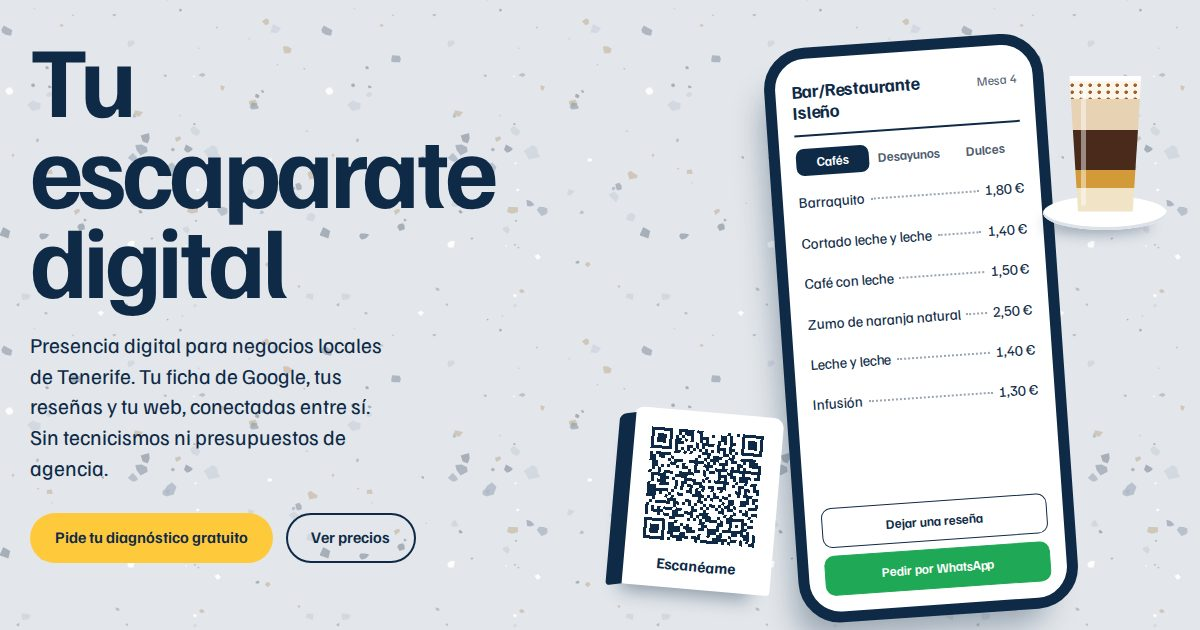
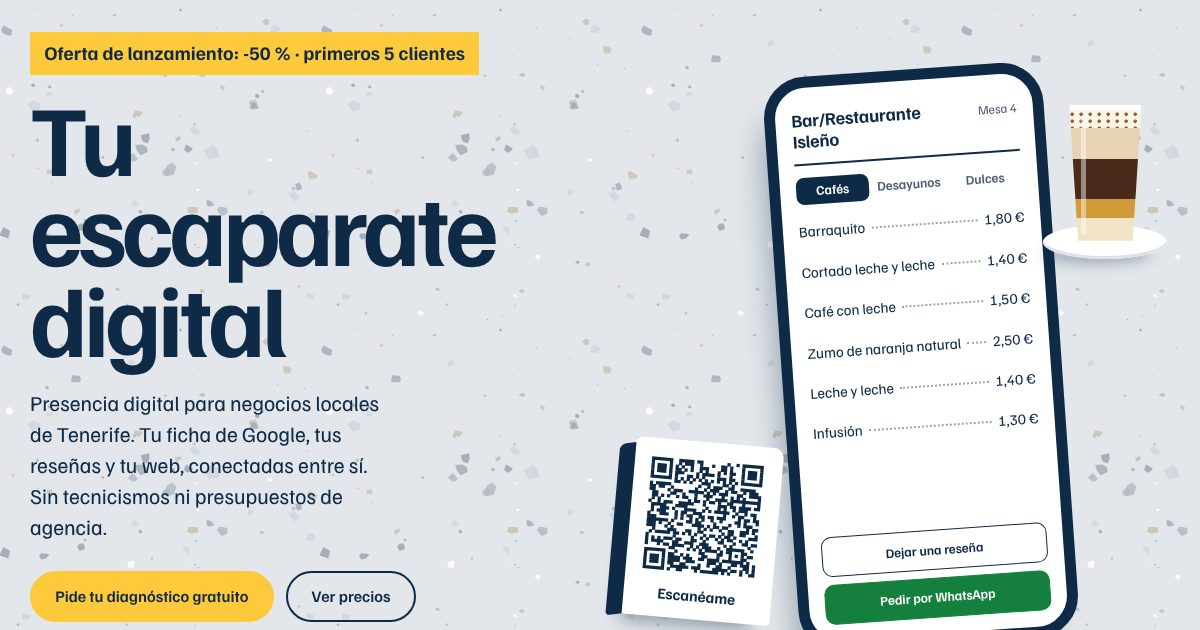
Privacidad y cookies ampliadas + oferta de lanzamiento del 50 % en los packs (#6)
* Amplía privacidad y cookies y añade oferta de lanzamiento del 50 % en los packs

Privacidad: datos técnicos de la visita (Cloudflare), encargados, bases legales, plazos y menores.
Cookies: aclara que no se usan cookies ni tecnologías similares (art. 22.2 LSSI-CE).
Oferta: 50 % en los dos packs para los 5 primeros clientes, con precio normal tachado, 3 primeros meses de mantenimiento incluidos y condiciones visibles. Se desactiva con launch.active en site.js.

Claude-Session: https://claude.ai/code/session_016pAXmZxjhvZdBb3bP4EuyG

* Regenera la imagen para compartir con la oferta de lanzamiento

Claude-Session: https://claude.ai/code/session_016pAXmZxjhvZdBb3bP4EuyG

---------

Changed region(s): [[0.0, 0.0302, 0.4317, 0.9952], [0.4933, 0.0302, 0.9867, 1.0]]

diff --git a/test/static.test.js b/test/static.test.js
@@ -30,6 +30,13 @@ const priceRow = (label, price) => new RegExp(`<span>${escapeRe(label)}</span><s
 const amount = (price) => Number(String(price).match(/\d+(?:,\d+)?/)[0].replace(',', '.'));
 const service = (id) => site.services.find((s) => s.id === id);
 const extra = (id) => site.extras.items.find((i) => i.id === id);
+// Precio normal de un pack (con la oferta de lanzamiento activa, el que aparece tachado).
+const normalPrice = (pack) => pack.regularPrice || pack.price;
+const launch = site.launch.active ? site.launch : null;
+// Importe de un pack en la web: con la oferta, el precio normal tachado delante del de lanzamiento.
+const packPriceRe = (pack) => (pack.regularPrice
+  ? `<s class="antes"><span class="solo-lectores">Precio normal: </span>${escapeRe(pack.regularPrice)}</s> <span class="solo-lectores">Precio de lanzamiento: </span>${escapeRe(pack.price)}`
+  : escapeRe(pack.price));
 
 before(() => {
   buildStatic({ outDir, publicBaseUrl: `${BASE}/` });
@@ -166,14 +173,14 @@ describe('coherencia del contenido', () => {
     assert.deepEqual(positions, [...positions].sort((a, b) => a - b), `orden del menú: ${navIds.join(', ')}`);
   });
 
-  test('cada pack es más barato que sus servicios sueltos, sin mostrar precio "antes" ni ahorro', () => {
+  test('cada pack (a precio normal) es más barato que sus servicios sueltos, sin mostrar ahorro', () => {
     // Pack completo hostelería = ficha + landing + primer año del plan de mantenimiento (pago anual) + tarjeta de reseñas.
     const planAnual = amount(service('hosting').prices[1].price);
     const suelto = amount(service('gbp').price) + amount(service('landing').price) + planAnual + amount(extra('nfc').price);
-    assert.equal(suelto - amount(site.pack.price), 25, 'el pack de hostelería ahorra 25 € frente a los servicios sueltos');
+    assert.equal(suelto - amount(normalPrice(site.pack)), 25, 'el pack de hostelería ahorra 25 € frente a los servicios sueltos');
     // Pack negocios con cita previa = landing + tarjeta de reseñas + primer año del plan, más barato que por separado.
     const cita = site.sectors.find((s) => s.id === 'cita-previa');
-    assert.equal(amount(service('landing').price) + amount(extra('nfc').price) + planAnual - amount(cita.pack.price), 25,
+    assert.equal(amount(service('landing').price) + amount(extra('nfc').price) + planAnual - amount(normalPrice(cita.pack)), 25,
       'el pack de cita previa ahorra 25 € frente a los servicios sueltos');
   });
 
@@ -196,17 +203,19 @@ describe('coherencia del contenido', () => {
     const [mensual, anual] = service('hosting').prices.map((row) => row.price);
     const plan = `${mensual.replace(' / mes', ' al mes')} o ${anual.replace(' / año', ' al año')}`;
     assert.equal(plan, '12 € al mes o 120 € al año');
-    assert.match(between(index, 'class="recorrido"', 'id="por-que"'), new RegExp(escapeRe(`por ${plan}. El primer año va incluido en los packs.`)));
+    assert.match(between(index, 'class="recorrido"', 'id="por-que"'), new RegExp(escapeRe(`por ${plan}. ${launch ? `Los packs de lanzamiento incluyen los ${launch.months} primeros meses.` : 'El primer año va incluido en los packs.'}`)));
   });
 
-  test('plan de mantenimiento: sustituye al hosting suelto, hasta 2 cambios al mes y primer año incluido en los dos packs', () => {
+  test('plan de mantenimiento: sustituye al hosting suelto, hasta 2 cambios al mes e incluido en los dos packs', () => {
     const plan = service('hosting');
     assert.equal(plan.name, 'Plan de mantenimiento');
     assert.deepEqual(plan.prices.slice(0, 2).map((row) => row.price), ['12 € / mes', '120 € / año']);
     assert.doesNotMatch(index, /90 € \/ año|90 € al año|se paga aparte|hosting aparte/);
     for (const sector of site.sectors) {
       const panel = between(index, `id="${sector.id}"`, sector.id === 'hosteleria' ? 'id="cita-previa"' : 'class="recorrido"');
-      assert.match(panel, /<h4>Plan de mantenimiento el primer año<\/h4>\s*<p>Hosting, dominio y hasta 2 cambios al mes/, sector.id);
+      const incluido = sector.includes.find((i) => i.name.startsWith('Plan de mantenimiento'));
+      assert.equal(incluido.name, launch ? `Plan de mantenimiento los ${launch.months} primeros meses` : 'Plan de mantenimiento el primer año');
+      assert.match(panel, new RegExp(`<h4>${escapeRe(incluido.name)}</h4>\\s*<p>[^<]*hosting, dominio y hasta 2 cambios al mes`, 'i'), sector.id);
     }
   });
 
@@ -293,7 +302,7 @@ describe('packs por tipo de negocio', () => {
     const panel = between(index, 'id="hosteleria"', 'id="cita-previa"');
     assert.doesNotMatch(index, /[Dd]e regalo/);
     assert.equal((panel.match(/class="local-precio incluido">Incluido</g) || []).length, site.sectors[0].includes.length);
-    assert.match(panel, new RegExp(`class="pack-total">[\\s\\S]*?<span class="local-precio">${site.pack.price}</span>`));
+    assert.match(panel, new RegExp(`class="pack-total">[\\s\\S]*?<span class="local-precio">${packPriceRe(site.pack)}</span>`));
     for (const id of ['mesa', 'pegatinas']) {
       assert.match(panel, new RegExp(`${escapeRe(extra(id).name)}</h5>[\\s\\S]*?${escapeRe(extra(id).price)}`));
     }
@@ -304,7 +313,7 @@ describe('packs por tipo de negocio', () => {
   test('cita previa: pack con el primer año de mantenimiento y tarjetas de visita; sin material de mesa', () => {
     const cita = site.sectors.find((s) => s.id === 'cita-previa');
     const panel = between(index, 'id="cita-previa"', 'class="recorrido"');
-    assert.match(panel, new RegExp(`${escapeRe(cita.pack.label)}</h4>\\s*<span class="local-precio">${cita.pack.price}`));
+    assert.match(panel, new RegExp(`${escapeRe(cita.pack.label)}</h4>\\s*<span class="local-precio">${packPriceRe(cita.pack)}</span>`));
     assert.match(panel, new RegExp(`Opcional: ${escapeRe(cita.option.name)}[\\s\\S]*?${escapeRe(cita.option.price)}`));
     assert.doesNotMatch(panel, /Expositor de mesa/);
     assert.match(panel, /wa\.me\/34623243294\?text=Hola%2C%20tengo%20un%20negocio%20con%20cita%20previa/);
@@ -317,9 +326,13 @@ describe('precios', () => {
       for (const row of s.prices || [{ label: s.priceLabel || s.name, price: s.price }]) assert.match(precios, priceRow(row.label, row.price));
     }
     for (const item of site.extras.items) assert.match(precios, priceRow(item.name, item.price));
-    assert.match(precios, /class="pack"[\s\S]*?<p class="pack-precio"><strong>520 €<\/strong>/);
-    assert.doesNotMatch(index, /<s>|ahorr|antes \d/i, 'sin precio tachado ni ahorro');
-    assert.match(precios, /Pack negocios con cita previa \(web, tarjeta de reseñas QR \+ NFC y primer año de mantenimiento\)/);
+    const precioPack = launch ? '<s class="antes"><span class="solo-lectores">Precio normal: </span>520 €</s> <span class="solo-lectores">Precio de lanzamiento: </span><strong>260 €</strong>' : '<strong>520 €</strong>';
+    assert.match(precios, new RegExp(`class="pack"[\\s\\S]*?<p class="pack-precio">${escapeRe(precioPack)}</p>`));
+    assert.doesNotMatch(index, /ahorr|antes \d/i, 'sin ahorro calculado');
+    assert.equal(index.includes('<s '), Boolean(launch), 'precio tachado solo mientras dura la oferta');
+    const cita = site.sectors.find((s) => s.id === 'cita-previa');
+    assert.match(precios, new RegExp(`Pack negocios con cita previa \\(${escapeRe(cita.pack.label.charAt(0).toLowerCase() + cita.pack.label.slice(1))}\\)`));
+    assert.match(precios, new RegExp(`<span class="importe">${packPriceRe(cita.pack)}</span>`));
     assert.match(precios, /Precios sin IGIC/);
   });
 });
@@ -393,5 +406,35 @@ describe('datos estructurados para Google', () => {
     } finally {
       rmSync(dir, { recursive: true, force: true });
     }
+  });
+});
+
+describe('oferta de lanzamiento', () => {
+  test('50 % de descuento en los dos packs, con precio normal, cupo y condiciones visibles', () => {
+    assert.equal(site.launch.percent, 50);
+    for (const pack of [site.pack, site.sectors.find((s) => s.id === 'cita-previa').pack]) {
+      assert.equal(amount(pack.price), amount(pack.regularPrice) / 2, pack.name);
+    }
+    assert.deepEqual([site.pack.price, site.pack.regularPrice], ['260 €', '520 €']);
+    const oferta = between(index, 'class="oferta"', '</aside>');
+    assert.match(oferta, /Oferta de lanzamiento: -50 %/);
+    assert.match(oferta, /los 5 primeros clientes/);
+    assert.match(oferta, /3 primeros meses de mantenimiento/);
+    assert.match(oferta, /Precios sin IGIC/);
+    assert.match(oferta, /wa\.me\/34623243294\?text=Hola%2C%20quiero%20aprovechar%20la%20oferta/);
+    assert.match(index, /class="oferta-chapa" href="#packs"/);
+  });
+
+  test('la oferta no toca los servicios sueltos ni el material', () => {
+    const grupos = precios.split('class="carta-grupo"').slice(1);
+    assert.ok(grupos.length >= 3);
+    assert.doesNotMatch(grupos.slice(0, 2).join(''), /<s /);
+  });
+
+  test('los datos estructurados anuncian el precio de lanzamiento', () => {
+    const [negocio] = JSON.parse(/<script type="application\/ld\+json">\n([\s\S]*?)\n<\/script>/.exec(index)[1])['@graph'];
+    const precios = negocio.hasOfferCatalog.itemListElement.flatMap((g) => g.itemListElement)
+      .filter((o) => /^Pack /.test(o.itemOffered.name)).map((o) => o.priceSpecification.price);
+    assert.deepEqual(precios, [260, 210]);
   });
 });

diff --git a/src/views/legal.js b/src/views/legal.js
@@ -45,22 +45,31 @@ export function renderPrivacy({ site, config }) {
   ];
 
   sections.push(
-    ['Qué datos tratamos', '<p>Esta web no guarda ningún dato. El formulario de contacto solo prepara un mensaje de WhatsApp en tu dispositivo: nos llega únicamente si tú decides enviarlo. En ese caso tratamos tu nombre, tu número de teléfono y lo que nos escribas.</p>'],
-    ['Para qué los usamos', '<p>Únicamente para responder a tu consulta y, si te interesa, preparar un presupuesto. No enviamos publicidad ni tomamos decisiones automatizadas.</p>'],
-    ['Base legal', '<p>Tu consentimiento al escribirnos (art. 6.1.a RGPD) y, si contratas, la ejecución del contrato (art. 6.1.b RGPD).</p>'],
-    ['Cuánto tiempo los guardamos', '<p>Si no llegas a contratar, borramos la conversación en un plazo máximo de 12 meses. Si contratas, durante la relación comercial y los plazos legales de conservación.</p>'],
-    ['Con quién los compartimos', '<p>No cedemos tus datos a terceros salvo obligación legal. Al usar WhatsApp se aplican además las condiciones y la política de privacidad de WhatsApp (Meta).</p>'],
+    ['Qué datos tratamos', '<p>Esta web no guarda ningún dato por su cuenta: no tiene formularios que almacenen información, ni cuentas de usuario, ni analítica, ni publicidad. El formulario de contacto solo prepara un mensaje de WhatsApp en tu dispositivo: nos llega únicamente si tú decides enviarlo. En ese caso tratamos los datos que nos facilites: tu nombre, tu número de teléfono y lo que nos escribas, y los datos del negocio que nos pases si pides información o un presupuesto.</p>'],
+    ['Datos técnicos de la visita', '<p>Para servir la web, el proveedor de alojamiento (Cloudflare, Inc.) recibe de forma automática datos técnicos de tu conexión, como la dirección IP, el navegador y la fecha y hora de la visita. Los usa para entregar la página y garantizar su seguridad; nosotros no accedemos a un registro individual de visitantes ni lo usamos para identificarte. Cloudflare puede tratar estos datos fuera del Espacio Económico Europeo con las garantías previstas en el RGPD (cláusulas contractuales tipo o decisión de adecuación).</p>'],
+    ['Para qué los usamos', '<p>Únicamente para responder a tu consulta, preparar un presupuesto y, si contratas, prestar el servicio y facturarlo. No enviamos publicidad que no hayas pedido, no elaboramos perfiles y no tomamos decisiones automatizadas.</p>'],
+    ['Base legal', '<p>Tu consentimiento al escribirnos (art. 6.1.a RGPD); la aplicación de medidas precontractuales a petición tuya y, si contratas, la ejecución del contrato (art. 6.1.b RGPD); el cumplimiento de obligaciones legales, como las fiscales y contables (art. 6.1.c RGPD); y, para los datos técnicos de la visita, el interés legítimo en el funcionamiento y la seguridad de la web (art. 6.1.f RGPD).</p>'],
+    ['Cuánto tiempo los guardamos', '<p>Si no llegas a contratar, borramos la conversación en un plazo máximo de 12 meses. Si contratas, durante la relación comercial y después, bloqueados, durante los plazos legales de conservación (en general, hasta 6 años para la documentación mercantil y contable).</p>'],
+    ['Con quién los compartimos', '<p>No vendemos ni cedemos tus datos a terceros salvo obligación legal. Intervienen como proveedores (encargados del tratamiento): Cloudflare, para el alojamiento de la web, y WhatsApp (Meta Platforms Ireland Ltd.), que es el canal que eliges para escribirnos y cuyas condiciones y política de privacidad se aplican además a esa conversación. Si contratas, podemos necesitar acceder a tu ficha de Google Business para configurarla, siempre con tu autorización y solo para ese fin.</p>'],
+    ['Menores', '<p>Esta web se dirige a profesionales y titulares de negocios. No recogemos conscientemente datos de menores de 14 años.</p>'],
   );
 
-  sections.push(['Tus derechos', `<p>Puedes ejercer tus derechos de acceso, rectificación, supresión, oposición, limitación y portabilidad escribiéndonos a ${reach}. Si consideras que no hemos atendido correctamente tu solicitud, puedes reclamar ante la Agencia Española de Protección de Datos (<a href="https://www.aepd.es" rel="noopener">www.aepd.es</a>).</p>`]);
+  sections.push(
+    ['Tus derechos', `<p>Puedes ejercer tus derechos de acceso, rectificación, supresión, oposición, limitación del tratamiento y portabilidad, y retirar tu consentimiento en cualquier momento, escribiéndonos a ${reach}. Responderemos en el plazo de un mes. Si consideras que no hemos atendido correctamente tu solicitud, puedes reclamar ante la Agencia Española de Protección de Datos (<a href="https://www.aepd.es" rel="noopener">www.aepd.es</a>).</p>`],
+    ['Cambios en esta política', `<p>Si cambiamos la forma de tratar tus datos, actualizaremos esta página y su fecha. Última revisión: ${esc(site.legal.lastUpdated)}.</p>`],
+  );
 
   return page({ site, config, path: '/privacidad', title: 'Política de privacidad', sections });
 }
 
 export function renderCookies({ site, config }) {
   const sections = [
-    ['Qué cookies usamos', `<p>La web de ${esc(site.name)} no utiliza cookies de ningún tipo, y las tipografías se sirven desde nuestro propio alojamiento. Por eso no te mostramos un aviso de cookies.</p>`],
-    ['Enlaces externos', '<p>Al pulsar los botones de WhatsApp sales de esta web; desde ese momento se aplica la política de cookies de WhatsApp.</p>'],
+    ['Qué son las cookies', '<p>Las cookies son pequeños archivos que una web guarda en tu dispositivo para recordarte o medir tu actividad. También existen tecnologías parecidas, como el almacenamiento local del navegador.</p>'],
+    ['Qué cookies usamos', `<p>La web de ${esc(site.name)} <strong>no utiliza cookies ni tecnologías similares</strong> en tu dispositivo: ni propias ni de terceros, ni técnicas, de análisis o de publicidad. No guardamos nada en tu navegador. Las tipografías se sirven desde nuestro propio alojamiento y no cargamos recursos de terceros.</p>
+  <p>Por eso, conforme al artículo 22.2 de la LSSI-CE, no te mostramos un aviso de cookies ni te pedimos que las aceptes.</p>`],
+    ['Enlaces externos', '<p>Al pulsar los botones de WhatsApp o los enlaces a otras webs sales de este sitio; desde ese momento se aplican la política de cookies y de privacidad de cada servicio.</p>'],
+    ['Si esto cambia', '<p>Si en el futuro añadimos algún servicio que use cookies (por ejemplo, estadísticas), te lo pediremos antes con un aviso que puedas aceptar o rechazar, y actualizaremos esta página.</p>'],
+    ['Cómo gestionar las cookies', '<p>Aunque esta web no las usa, puedes bloquear o borrar las de otros sitios desde la configuración de tu navegador.</p>'],
   ];
   return page({ site, config, path: '/cookies', title: 'Política de cookies', sections });
 }

diff --git a/src/content/site.js b/src/content/site.js
@@ -1,7 +1,31 @@
 // CONTENIDO EDITABLE DE LA WEB.
 // Cambia aquí textos, precios, contacto y equipo.
 
+// OFERTA DE LANZAMIENTO: 50 % de descuento en los dos packs para los primeros clientes.
+// Para terminarla: pon active en false. Los precios de los packs vuelven a los normales y los
+// packs vuelven a incluir el primer año de mantenimiento. El cupo no se descuenta solo:
+// cuando se cubran las plazas, desactívala (o baja "spots") y vuelve a publicar.
+const launch = { active: true, percent: 50, spots: 5, months: 3 };
+const euros = (n) => `${n} €`;
+// Precio de un pack: con la oferta, la mitad; "regularPrice" (precio normal) solo existe mientras dura.
+const packPrice = (regular) => (launch.active ? euros(regular * (100 - launch.percent) / 100) : euros(regular));
+const regularPrice = (regular) => (launch.active ? { regularPrice: euros(regular) } : {});
+const maintenanceName = launch.active ? `Plan de mantenimiento los ${launch.months} primeros meses` : 'Plan de mantenimiento el primer año';
+const maintenanceText = launch.active
+  ? `En la oferta de lanzamiento: hosting, dominio y hasta 2 cambios al mes (carta, precios, horarios, fotos) durante ${launch.months} meses.`
+  : 'Hosting, dominio y hasta 2 cambios al mes (carta, precios, horarios, fotos).';
+const maintenanceInPack = launch.active ? `${launch.months} primeros meses de mantenimiento` : 'primer año de mantenimiento';
+
 export const site = {
+  launch: {
+    ...launch,
+    badge: `Oferta de lanzamiento: -${launch.percent} %`,
+    title: `-${launch.percent} % en los packs para los ${launch.spots} primeros clientes`,
+    text: `Precio de lanzamiento solo para los ${launch.spots} primeros negocios que contraten un pack, hasta completar plazas. Incluye los ${launch.months} primeros meses de mantenimiento.`,
+    terms: `Precios sin IGIC. Después de los ${launch.months} meses puedes seguir con el plan de mantenimiento ({plan}). La oferta no es acumulable con otras promociones y se aplica a los packs, no a los servicios sueltos ni al material.`,
+    cta: 'Reserva tu plaza',
+    whatsappText: `Hola, quiero aprovechar la oferta de lanzamiento del ${launch.percent} % en el pack`,
+  },
   name: 'Alcance Isleño',
   title: 'Alcance Isleño | Tu escaparate digital: presencia digital para negocios de Tenerife',
   description:
@@ -107,7 +131,7 @@ export const site = {
       includes: [
         { name: 'Landing page con carta digital', text: 'Tu carta con precios, horario, ubicación y contacto por WhatsApp. Se abre desde el QR de la mesa, sin descargar nada.' },
         { name: 'Ficha de Google Business', text: 'La creamos o optimizamos: horarios, fotos, enlace a tu carta y acceso directo a tus reseñas.' },
-        { name: 'Plan de mantenimiento el primer año', text: 'Hosting, dominio y hasta 2 cambios al mes (carta, precios, horarios, fotos).' },
+        { name: maintenanceName, text: maintenanceText },
         { name: 'Tarjeta de reseñas QR + NFC', text: 'Tus clientes dejan su reseña en Google o Tripadvisor en segundos.' },
       ],
       pack: 'main',
@@ -142,9 +166,9 @@ export const site = {
       includes: [
         { name: 'Landing page con tus servicios', text: 'Servicios y precios, fotos de tus trabajos, horarios, ubicación y un botón para pedir cita por WhatsApp.' },
         { name: 'Tarjeta de reseñas QR + NFC', text: 'En el mostrador o junto al espejo: al pagar, tu cliente acerca el móvil y deja su reseña en Google en segundos. También funciona con QR.' },
-        { name: 'Plan de mantenimiento el primer año', text: 'Hosting, dominio y hasta 2 cambios al mes (carta, precios, horarios, fotos).' },
+        { name: maintenanceName, text: maintenanceText },
       ],
-      pack: { name: 'Pack negocios con cita previa', label: 'Web, tarjeta de reseñas QR + NFC y primer año de mantenimiento', price: '420 €' },
+      pack: { name: 'Pack negocios con cita previa', label: `Web, tarjeta de reseñas QR + NFC y ${maintenanceInPack}`, price: packPrice(420), ...regularPrice(420) },
       option: {
         name: 'Tarjetas de visita personalizadas',
         text: 'Impresas con tu marca, a juego con tu web y tu tarjeta de reseñas QR + NFC.',
@@ -178,7 +202,9 @@ export const site = {
       { moment: 'Te deja una reseña', service: 'nfc' },
     ],
     // {plan} se sustituye por los precios del plan de mantenimiento ("12 € al mes o 120 € al año").
-    note: 'Y para que todo siga al día, nuestro plan de mantenimiento incluye hosting, dominio y hasta 2 cambios al mes (carta, servicios, precios, horarios o fotos) por {plan}. El primer año va incluido en los packs.',
+    note: 'Y para que todo siga al día, nuestro plan de mantenimiento incluye hosting, dominio y hasta 2 cambios al mes (carta, servicios, precios, horarios o fotos) por {plan}. ' + (launch.active
+      ? `Los packs de lanzamiento incluyen los ${launch.months} primeros meses.`
+      : 'El primer año va incluido en los packs.'),
   },
 
   // POR QUÉ ELEGIRNOS
@@ -240,7 +266,8 @@ export const site = {
   // comprueba que el pack sigue siendo más barato que sus servicios sueltos. Pon "pack: null" para ocultarlo.
   pack: {
     name: 'Pack completo para hostelería',
-    price: '520 €',
+    price: packPrice(520),
+    ...regularPrice(520),
   },
   pricesNote: 'Precios sin IGIC. Otros trabajos de imprenta y la fotografía profesional se presupuestan aparte.',
 
@@ -289,6 +316,6 @@ export const site = {
     taxId: '', // NIF/CIF
     address: '', // dirección postal
     registry: '', // datos registrales, si es sociedad
-    lastUpdated: '30 de septiembre de 2026',
+    lastUpdated: '8 de octubre de 2026',
   },
 };

diff --git a/src/views/landing.js b/src/views/landing.js
@@ -46,7 +46,7 @@ export function priceList(site) {
     ...(sectors || []).filter((sector) => sector.pack !== 'main').map((sector) => ({
       title: sector.title,
       rows: [
-        { label: `${sector.pack.name} (${sector.pack.label.charAt(0).toLowerCase()}${sector.pack.label.slice(1)})`, price: sector.pack.price },
+        { label: `${sector.pack.name} (${sector.pack.label.charAt(0).toLowerCase()}${sector.pack.label.slice(1)})`, price: sector.pack.price, regularPrice: sector.pack.regularPrice },
         ...(sector.option ? [{ label: `${sector.option.name} (opcional)`, price: sector.option.price }] : []),
       ],
     })),
@@ -81,6 +81,20 @@ export function renderLanding({ site, config }) {
     ? `${mainSector.includes.map((i, n) => (n ? i.name.charAt(0).toLowerCase() + i.name.slice(1) : i.name)).join(' + ')}.`
     : '';
 
+  // Oferta de lanzamiento: precio normal tachado delante del precio con descuento (solo mientras dura).
+  const launch = site.launch && site.launch.active ? site.launch : null;
+  const priceHtml = (price, regularPrice) => (regularPrice
+    ? `<s class="antes"><span class="solo-lectores">Precio normal: </span>${esc(regularPrice)}</s> <span class="solo-lectores">Precio de lanzamiento: </span>${esc(price)}`
+    : esc(price));
+  const launchBanner = launch ? `
+    <aside class="oferta" aria-labelledby="oferta-titulo">
+      <p class="oferta-etiqueta">${esc(launch.badge)}</p>
+      <h3 id="oferta-titulo">${esc(launch.title)}</h3>
+      <p>${esc(launch.text)}</p>
+      <a class="btn btn-sol" href="${esc(whatsappUrl(whatsapp, launch.whatsappText))}" rel="noopener" target="_blank">${esc(launch.cta)}</a>
+      <p class="oferta-condiciones">${esc(launch.terms.replace('{plan}', planText))}</p>
+    </aside>` : '';
+
   // ---------- Portada: la mesa ----------
   const qrUrl = whatsappUrl(whatsapp, demoMenu.qrWhatsappText);
   const menuTabs = demoMenu.sections.map((section, i) => `
@@ -94,6 +108,7 @@ export function renderLanding({ site, config }) {
 <div class="mesa" id="inicio">
   <div class="wrap mesa-grid">
     <div class="mesa-texto">
+      ${launch ? `<a class="oferta-chapa" href="#packs">${esc(launch.badge)} · primeros ${esc(String(launch.spots))} clientes</a>` : ''}
       <h1>${esc(hero.title)}</h1>
       <p class="lead">${esc(hero.lead)}</p>
       <div class="acciones">
@@ -192,7 +207,7 @@ export function renderLanding({ site, config }) {
           </li>`).join('')}
           <li class="pack-total">
             <h4>${esc(sectorPack.label || sectorPack.name)}</h4>
-            <span class="local-precio">${esc(sectorPack.price)}</span>
+            <span class="local-precio">${priceHtml(sectorPack.price, sectorPack.regularPrice)}</span>
           </li>
         </ul>${sector.option && sector.option.items ? `
         <div class="pack-opcion pack-opcion-lista">
@@ -241,7 +256,7 @@ export function renderLanding({ site, config }) {
   const sectorsSection = sectors ? `
 <section class="packs" id="packs">
   <div class="wrap">
-    <h2>${esc(site.sectorsTitle)}</h2>
+    <h2>${esc(site.sectorsTitle)}</h2>${launchBanner}
     <div class="sector-tabs" role="tablist" aria-label="${esc(site.sectorsTitle)}" hidden>${sectors.map((sector, i) => `
       <button type="button" role="tab" id="tab-${esc(sector.id)}" aria-controls="${esc(sector.id)}" aria-selected="${i === 0}"${i === 0 ? '' : ' tabindex="-1"'}>${esc(sector.tab)}</button>`).join('')}
     </div>${sectors.map(sectorPanel).join('')}
@@ -279,8 +294,8 @@ export function renderLanding({ site, config }) {
 </section>`;
 
   // ---------- Precios: como la carta de una cafetería ----------
-  const priceRow = (label, price) => `
-          <li><span>${esc(label)}</span><span class="guia" aria-hidden="true"></span><span class="importe">${esc(price)}</span></li>`;
+  const priceRow = (label, price, regularPrice) => `
+          <li><span>${esc(label)}</span><span class="guia" aria-hidden="true"></span><span class="importe">${priceHtml(price, regularPrice)}</span></li>`;
   const priceGroups = priceList(site);
   const pricesSection = `
 <section class="precios" id="precios">
@@ -291,11 +306,12 @@ export function renderLanding({ site, config }) {
       <div class="pack">
         <h3>${esc(pack.name)}</h3>
         <p>${esc(packText)}</p>
-        <p class="pack-precio"><strong>${esc(pack.price)}</strong></p>
+        <p class="pack-precio">${pack.regularPrice ? `<s class="antes"><span class="solo-lectores">Precio normal: </span>${esc(pack.regularPrice)}</s> <span class="solo-lectores">Precio de lanzamiento: </span>` : ''}<strong>${esc(pack.price)}</strong></p>
+        ${launch ? `<p class="pack-oferta">${esc(launch.badge)} · primeros ${esc(String(launch.spots))} clientes</p>` : ''}
       </div>` : ''}${priceGroups.map((group) => `
       <div class="carta-grupo">
         <h3>${esc(group.title)}</h3>
-        <ul>${group.rows.map((row) => priceRow(row.label, row.price)).join('')}
+        <ul>${group.rows.map((row) => priceRow(row.label, row.price, row.regularPrice)).join('')}
         </ul>
       </div>`).join('')}
       <p class="precios-nota">${esc(site.pricesNote)}</p>

diff --git a/public/css/site.css b/public/css/site.css
@@ -502,3 +502,21 @@ footer a { text-decoration: none; }
   .pack-opcion-lista { grid-template-columns: 1fr; }
   .opcion-foto { max-width: 140px; margin-bottom: .8rem; }
 }
+
+/* ---------- Oferta de lanzamiento ---------- */
+.solo-lectores { position: absolute; width: 1px; height: 1px; overflow: hidden; clip-path: inset(50%); white-space: nowrap; }
+s.antes { color: var(--gris); font-weight: 400; font-size: .7em; margin-right: .3rem; text-decoration-thickness: 2px; }
+.pack-precio s.antes { color: #D5E1F0; font-size: 1.2rem; }
+.oferta-chapa {
+  display: inline-block; margin-bottom: 1rem; padding: .35rem .8rem;
+  background: var(--sol); color: var(--tinta); font-weight: 700; font-size: var(--t-s); text-decoration: none;
+}
+.oferta {
+  margin: 0 0 2rem; padding: 1.6rem 1.8rem; background: var(--tinta); color: var(--papel);
+}
+.oferta h3 { font-size: var(--t-xl); margin: .2rem 0 .5rem; }
+.oferta p { color: #D5E1F0; margin: 0 0 1rem; }
+.oferta .oferta-etiqueta { color: var(--sol); font-weight: 700; text-transform: uppercase; letter-spacing: .06em; font-size: var(--t-s); margin: 0; }
+.oferta .oferta-condiciones { font-size: var(--t-s); margin: 1rem 0 0; }
+.pack .pack-oferta { margin-top: .4rem; color: var(--sol); font-weight: 600; }
+.importe s.antes { font-size: .85em; }
